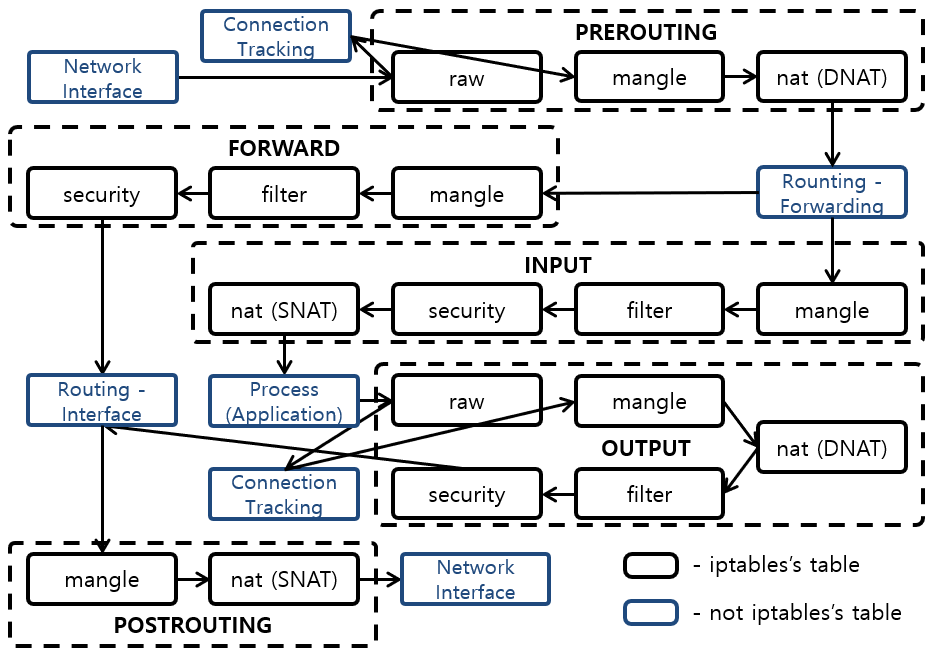
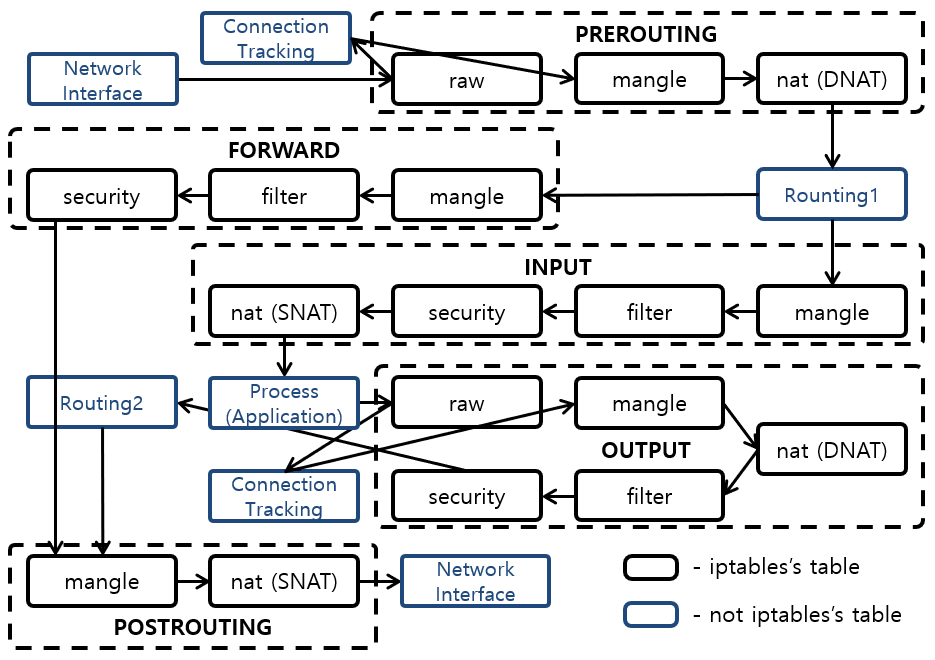
Update

diff --git a/_docs/theory_analysis/Linux_netfilter_iptables.md b/_docs/theory_analysis/Linux_netfilter_iptables.md
@@ -27,9 +27,11 @@ Netfilter는 5개의 Hook Point를 제공한다.
 
 ![[그림 1] Netfilter Packet 경로]({{site.baseurl}}/images/theory_analysis/Linux_Netfilter_iptables/Netfilter_Packet_Routine.PNG){: width="700px"}
 
-[그림 1]은 Netfilter의 Packet의 경로를 나타내고 있다. 외부에서 온 Packet의 목적지가 자신인 경우 NF_IP_PRE_ROUTING -> NF_IP_LOCAL_IN -> Process로 전달된다. Process에서 전송하는 Packet은 NF_IP_LOCAL_OUT -> NF_IP_POST_ROUTING Hook을 거쳐 Network로 전달된다. 외부에서 온 Packet의 목적지가 자신이 아닌경우 NF_IP_PRE_ROUTING -> NF_IP_FORWARD -> NF_IP_POST_ROUTING Hook을 거쳐 Network로 전달된다.
+[그림 1]은 Netfilter의 Packet의 경로를 나타내고 있다. Routing1은 Network Interface에서 전달받은 Packet이 자신이 받아야하는 Packet인지 아니면 다른 Host가 받아야하는 Packet인지 구분하여 Routing하는 과정을 나타낸다. Routing2는 Process에서 전송한 Packet이 NF_IP_LOCAL_OUT에서 DNAT될 경우 다시 Routing하는 과정을 나타낸다. Packet 경로는 아래의 3가지로 구분할 수 있다. 
 
-Routing : Forwarding은 전달받은 Packet이 자신이 받아야하는 Packet인지 아니면 다른 Host가 받아야하는 Packet인지 구분하여 Routing하는 과정을 나타낸다. Routing -Interface는 Packet을 어느 Network Interface에 전달해야할지 결정하는 과정을 나타낸다.
+* 외부에서 온 Packet의 목적지가 자신인 경우 : NF_IP_PRE_ROUTING -> NF_IP_LOCAL_IN -> Process
+* 외부에서 온 Packet의 목적지가 자신이 아닌 경우 : NF_IP_PRE_ROUTING -> NF_IP_FORWARD -> NF_IP_POST_ROUTING -> Network Interface
+* Process에서 전송하는 Packet의 경우 : NF_IP_LOCAL_OUT -> NF_IP_POST_ROUTING -> Network Interface
 
 ### 2. iptables
 
